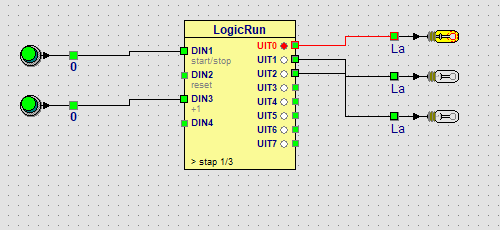
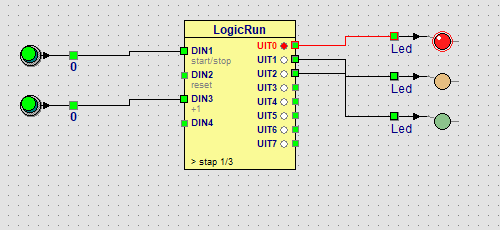
Led: lamp met kleur (rood, groen, oranje) via het rechtsklikmenu
- TjanSimLight.Kleur (lkLamp, lkRood, lkGroen, lkOranje): een led werkt net
  als een lamp; getekend als gekleurd bolletje (Afbeelding) of als diode met
  pijltjes (IEC/ANSI), fel als hij brandt, een lichte tint als hij uit is.
- Rechtsklikmenu Kleur; kleur als extra veld in de .lpl (een oudere Logic
  toont een lamp); telt mee voor ongedaan maken en het sterretje.
- Les 12 met een rode, oranje en groene led; help (4 talen) bij Uitvoer.

diff --git a/projects/LogicCEF/helpsrc/fr/les12.html b/projects/LogicCEF/helpsrc/fr/les12.html
@@ -6,15 +6,15 @@
 
   <p><a class="open" href="../../panels/lessen/les12-logicrun.lpl">&#9654; Ouvrir cet exemple</a></p>
   <figure>
-    <img src="../img/les12-logicrun.png" alt="Bloc LogicRun avec deux boutons-poussoirs et trois lampes">
-    <figcaption>Le programme tourne : UIT0 est active, la lampe du haut (rouge) est allumée.</figcaption>
+    <img src="../img/les12-logicrun.png" alt="Bloc LogicRun avec deux boutons-poussoirs et trois LED">
+    <figcaption>Le programme tourne : UIT0 est active, la LED du haut (rouge) est allumée.</figcaption>
   </figure>
 
   <h2>Que voyez-vous ?</h2>
   <ul>
     <li>Le <a href="logicrun.html">bloc LogicRun</a> au milieu.</li>
     <li>À gauche, deux boutons-poussoirs : celui du haut est sur <b>DIN1</b> (marche/arrêt), celui du bas sur <b>DIN3</b> (+1).</li>
-    <li>À droite, trois lampes, comme un feu tricolore : <b>UIT0</b> rouge (en haut), <b>UIT1</b> orange (au milieu)
+    <li>À droite, trois LED, comme un feu tricolore : <b>UIT0</b> rouge (en haut), <b>UIT1</b> orange (au milieu)
       et <b>UIT2</b> vert (en bas).</li>
   </ul>
 
@@ -37,13 +37,13 @@
   </ol>
 
   <h2>Exercice</h2>
-  <p>Faites rester le feu vert allumé 5 secondes au lieu de 3. Ajoutez ensuite un feu pour piétons : une
-  quatrième lampe sur <b>UIT3</b> qui ne s&rsquo;allume que lorsque le feu est rouge.</p>
+  <p>Faites rester le feu vert allumé 5 secondes au lieu de 3. Ajoutez ensuite un feu pour piétons : une LED verte
+  sur <b>UIT3</b> qui ne s&rsquo;allume que lorsque le feu est rouge.</p>
   <details>
     <summary>Solution</summary>
     <p>Avec une durée de 500&nbsp;ms, 5 secondes font 10 fois la durée : mettez la <b>durée x</b> du pas 2 à 10.
-    Dans le pas 1 (rouge), cliquez aussi sur le rond de UIT3. Placez une lampe sur le panneau et tirez un fil de
-    UIT3 vers cette lampe. Ainsi, un seul programme commande plusieurs lampes à la fois.</p>
+    Dans le pas 1 (rouge), cliquez aussi sur le rond de UIT3. Placez une lampe sur le panneau, faites-en une LED verte avec le bouton droit
+    (<b>Couleur</b> &rsaquo; <b>LED verte</b>) et tirez un fil de UIT3 vers cette LED. Ainsi, un seul programme commande plusieurs LED à la fois.</p>
   </details>
 
   <div class="pager"><a href="les11.html">&larr; Leçon 11 : Le relais</a><a href="leerpad.html">Parcours &rarr;</a></div>

diff --git a/projects/LogicCEF/helpsrc/de/les12.html b/projects/LogicCEF/helpsrc/de/les12.html
@@ -6,15 +6,15 @@
 
   <p><a class="open" href="../../panels/lessen/les12-logicrun.lpl">&#9654; Dieses Beispiel öffnen</a></p>
   <figure>
-    <img src="../img/les12-logicrun.png" alt="LogicRun-Block mit zwei Tastern und drei Lampen">
-    <figcaption>Das Programm läuft: UIT0 ist ein, die obere Lampe (rot) leuchtet.</figcaption>
+    <img src="../img/les12-logicrun.png" alt="LogicRun-Block mit zwei Tastern und drei LEDs">
+    <figcaption>Das Programm läuft: UIT0 ist ein, die obere LED (rot) leuchtet.</figcaption>
   </figure>
 
   <h2>Was sehen Sie?</h2>
   <ul>
     <li>Den <a href="logicrun.html">LogicRun-Block</a> in der Mitte.</li>
     <li>Links zwei Taster: der obere ist an <b>DIN1</b> (Start/Stopp), der untere an <b>DIN3</b> (+1).</li>
-    <li>Rechts drei Lampen wie eine Ampel: <b>UIT0</b> rot (oben), <b>UIT1</b> gelb (Mitte) und
+    <li>Rechts drei LEDs wie eine Ampel: <b>UIT0</b> rot (oben), <b>UIT1</b> gelb (Mitte) und
       <b>UIT2</b> grün (unten).</li>
   </ul>
 
@@ -37,14 +37,14 @@
   </ol>
 
   <h2>Aufgabe</h2>
-  <p>Lassen Sie das grüne Licht 5 statt 3 Sekunden leuchten. Fügen Sie danach eine Fußgängerampel hinzu: eine
-  vierte Lampe an <b>UIT3</b>, die nur leuchtet, wenn die Ampel rot ist.</p>
+  <p>Lassen Sie das grüne Licht 5 statt 3 Sekunden leuchten. Fügen Sie danach eine Fußgängerampel hinzu: eine grüne LED
+  an <b>UIT3</b>, die nur leuchtet, wenn die Ampel rot ist.</p>
   <details>
     <summary>Lösung</summary>
     <p>Bei einer Schrittzeit von 500&nbsp;ms sind 5 Sekunden das 10-fache der Schrittzeit: setzen Sie
     <b>Zeit x</b> von Schritt 2 auf 10. Klicken Sie in Schritt 1 (rot) auch den Kreis von UIT3 an. Setzen Sie eine
-    Lampe auf das Panel und legen Sie einen Draht von UIT3 zu dieser Lampe. So steuert ein einziges Programm
-    mehrere Lampen gleichzeitig.</p>
+    Lampe auf das Panel, machen Sie mit der rechten Maustaste eine grüne LED daraus (<b>Farbe</b> &rsaquo; <b>Grüne LED</b>)
+    und legen Sie einen Draht von UIT3 zu dieser LED. So steuert ein einziges Programm mehrere LEDs gleichzeitig.</p>
   </details>
 
   <div class="pager"><a href="les11.html">&larr; Lektion 11: Das Relais</a><a href="leerpad.html">Lernpfad &rarr;</a></div>

diff --git a/projects/LogicCEF/helpsrc/nl/les12.html b/projects/LogicCEF/helpsrc/nl/les12.html
@@ -6,15 +6,15 @@
 
   <p><a class="open" href="../../panels/lessen/les12-logicrun.lpl">&#9654; Open dit voorbeeld</a></p>
   <figure>
-    <img src="../img/les12-logicrun.png" alt="LogicRun-blok met twee drukknoppen en drie lampen">
-    <figcaption>Het programma loopt: UIT0 is aan, de bovenste lamp (rood) brandt.</figcaption>
+    <img src="../img/les12-logicrun.png" alt="LogicRun-blok met twee drukknoppen en drie leds">
+    <figcaption>Het programma loopt: UIT0 is aan, de bovenste led (rood) brandt.</figcaption>
   </figure>
 
   <h2>Wat zie je?</h2>
   <ul>
     <li>Het <a href="logicrun.html">LogicRun-blok</a> in het midden.</li>
     <li>Links twee drukknoppen: de bovenste zit op <b>DIN1</b> (start/stop), de onderste op <b>DIN3</b> (+1).</li>
-    <li>Rechts drie lampen, zoals een verkeerslicht: <b>UIT0</b> rood (boven), <b>UIT1</b> oranje (midden) en
+    <li>Rechts drie leds, zoals een verkeerslicht: <b>UIT0</b> rood (boven), <b>UIT1</b> oranje (midden) en
       <b>UIT2</b> groen (onder).</li>
   </ul>
 
@@ -37,13 +37,12 @@
   </ol>
 
   <h2>Opdracht</h2>
-  <p>Laat het groene licht 5 seconden branden in plaats van 3. Voeg daarna een voetgangerslicht toe: een
-  vierde lamp op <b>UIT3</b> die alleen brandt als het verkeerslicht rood is.</p>
+  <p>Laat het groene licht 5 seconden branden in plaats van 3. Voeg daarna een voetgangerslicht toe: een groene led op <b>UIT3</b> die alleen brandt als het verkeerslicht rood is.</p>
   <details>
     <summary>Oplossing</summary>
     <p>Met een stapduur van 500&nbsp;ms zijn 5 seconden 10 keer de stapduur: zet bij stap 2 <b>tijd x</b> op 10.
-    Klik in stap 1 (rood) ook het rondje van UIT3 aan. Zet een lamp op het paneel en leg een draad van UIT3 naar
-    die lamp. Zo stuurt één programma meerdere lampen tegelijk.</p>
+    Klik in stap 1 (rood) ook het rondje van UIT3 aan. Zet een lamp op het paneel, maak er met de rechtermuisknop een groene led van
+    (<b>Kleur</b> &rsaquo; <b>Groene led</b>) en leg een draad van UIT3 naar die led. Zo stuurt één programma meerdere leds tegelijk.</p>
   </details>
 
   <div class="pager"><a href="les11.html">&larr; Les 11: Het relais</a><a href="leerpad.html">Leerpad &rarr;</a></div>

diff --git a/projects/LogicCEF/helpsrc/en/les12.html b/projects/LogicCEF/helpsrc/en/les12.html
@@ -6,15 +6,15 @@
 
   <p><a class="open" href="../../panels/lessen/les12-logicrun.lpl">&#9654; Open this example</a></p>
   <figure>
-    <img src="../img/les12-logicrun.png" alt="LogicRun block with two push buttons and three lamps">
-    <figcaption>The program is running: UIT0 is on, the top lamp (red) is lit.</figcaption>
+    <img src="../img/les12-logicrun.png" alt="LogicRun block with two push buttons and three LEDs">
+    <figcaption>The program is running: UIT0 is on, the top LED (red) is lit.</figcaption>
   </figure>
 
   <h2>What do you see?</h2>
   <ul>
     <li>The <a href="logicrun.html">LogicRun block</a> in the middle.</li>
     <li>On the left two push buttons: the top one is on <b>DIN1</b> (start/stop), the bottom one on <b>DIN3</b> (+1).</li>
-    <li>On the right three lamps, like a traffic light: <b>UIT0</b> red (top), <b>UIT1</b> amber (middle) and
+    <li>On the right three LEDs, like a traffic light: <b>UIT0</b> red (top), <b>UIT1</b> amber (middle) and
       <b>UIT2</b> green (bottom).</li>
   </ul>
 
@@ -37,13 +37,13 @@
   </ol>
 
   <h2>Exercise</h2>
-  <p>Make the green light stay on for 5 seconds instead of 3. Then add a pedestrian light: a fourth lamp on
+  <p>Make the green light stay on for 5 seconds instead of 3. Then add a pedestrian light: a green LED on
   <b>UIT3</b> that is only lit when the traffic light is red.</p>
   <details>
     <summary>Solution</summary>
     <p>With a step time of 500&nbsp;ms, 5 seconds is 10 times the step time: set <b>time x</b> of step 2 to 10.
-    In step 1 (red) also click the circle of UIT3. Put a lamp on the panel and run a wire from UIT3 to that lamp.
-    That way one program controls several lamps at the same time.</p>
+    In step 1 (red) also click the circle of UIT3. Put a lamp on the panel, turn it into a green LED with the right mouse button
+    (<b>Colour</b> &rsaquo; <b>Green LED</b>) and run a wire from UIT3 to that LED. That way one program controls several LEDs at the same time.</p>
   </details>
 
   <div class="pager"><a href="les11.html">&larr; Lesson 11: The relay</a><a href="leerpad.html">Learning path &rarr;</a></div>

diff --git a/projects/LogicCEF/helpsrc/fr/uitvoer.html b/projects/LogicCEF/helpsrc/fr/uitvoer.html
@@ -6,7 +6,13 @@
   <a href="simulatie.html#voeding">Où sont le plus et le moins&nbsp;?</a> S&rsquo;il y a des <a href="voeding.html">rails d&rsquo;alimentation</a> sur le panneau, branchez les sorties à gauche d&rsquo;un rail &minus; (masse).</p>
 
   <h2 id="lamp"><img src="../img/pal-lamp.png" class="ico" alt="">Lampe</h2>
-  <p>S&rsquo;allume tant que l&rsquo;entrée est active.</p>
+$1  <p id="led"><b>LED :</b> cliquez avec le bouton droit sur une lampe et choisissez <b>Couleur</b> &rsaquo; <b>LED rouge</b>,
+  <b>LED verte</b> ou <b>LED orange</b>. La lampe devient alors une LED de cette couleur et fonctionne pour le reste comme une lampe.
+  Une LED éteinte montre une teinte claire de sa couleur. <b>Couleur</b> &rsaquo; <b>Lampe</b> en refait une lampe ordinaire.</p>
+  <figure>
+    <img src="../img/led-voorbeeld.png" alt="Une LED rouge, une orange et une verte">
+    <figcaption>Une LED rouge allumée, et une LED orange et une LED verte éteintes.</figcaption>
+  </figure>
 
   <h2 id="relais"><img src="../img/pal-relais.png" class="ico" alt="">Relais</h2>
   <p>Un relais est un interrupteur commandé par un électroaimant. À gauche se trouve l&rsquo;entrée <b>R</b> vers

diff --git a/projects/LogicCEF/helpsrc/de/uitvoer.html b/projects/LogicCEF/helpsrc/de/uitvoer.html
@@ -6,7 +6,13 @@
   <a href="simulatie.html#voeding">Wo sind Plus und Minus?</a> Stehen <a href="voeding.html">Versorgungsschienen</a> auf dem Panel, stecken Sie die Ausgänge links an eine &minus; Schiene (Masse).</p>
 
   <h2 id="lamp"><img src="../img/pal-lamp.png" class="ico" alt="">Lampe</h2>
-  <p>Leuchtet, solange der Eingang ein ist.</p>
+$1  <p id="led"><b>LED:</b> Klicken Sie mit der rechten Maustaste auf eine Lampe und wählen Sie <b>Farbe</b> &rsaquo; <b>Rote LED</b>,
+  <b>Grüne LED</b> oder <b>Orange LED</b>. Die Lampe wird dann zu einer LED in dieser Farbe und funktioniert sonst genau wie eine Lampe.
+  Eine ausgeschaltete LED zeigt einen hellen Ton ihrer Farbe. Mit <b>Farbe</b> &rsaquo; <b>Lampe</b> wird sie wieder eine normale Lampe.</p>
+  <figure>
+    <img src="../img/led-voorbeeld.png" alt="Eine rote, eine orange und eine grüne LED">
+    <figcaption>Eine rote LED, die leuchtet, und eine orange und eine grüne LED, die aus sind.</figcaption>
+  </figure>
 
   <h2 id="relais"><img src="../img/pal-relais.png" class="ico" alt="">Relais</h2>
   <p>Ein Relais ist ein Schalter, der von einem Elektromagneten betätigt wird. Links befindet sich der Eingang

diff --git a/projects/LogicCEF/helpsrc/en/uitvoer.html b/projects/LogicCEF/helpsrc/en/uitvoer.html
@@ -6,7 +6,13 @@
   <a href="simulatie.html#voeding">Where are the plus and the minus?</a> If there are <a href="voeding.html">power rails</a> on the panel, plug the outputs in on the left of a &minus; rail (ground).</p>
 
   <h2 id="lamp"><img src="../img/pal-lamp.png" class="ico" alt="">Lamp</h2>
-  <p>Lights as long as the input is on.</p>
+$1  <p id="led"><b>LED:</b> right-click a lamp and choose <b>Colour</b> &rsaquo; <b>Red LED</b>,
+  <b>Green LED</b> or <b>Orange LED</b>. The lamp then becomes an LED in that colour and otherwise works just like a lamp.
+  An LED that is off shows a light shade of its colour. <b>Colour</b> &rsaquo; <b>Lamp</b> turns it back into an ordinary lamp.</p>
+  <figure>
+    <img src="../img/led-voorbeeld.png" alt="A red, an orange and a green LED">
+    <figcaption>A red LED that is lit, and an orange and a green LED that are off.</figcaption>
+  </figure>
 
   <h2 id="relais"><img src="../img/pal-relais.png" class="ico" alt="">Relay</h2>
   <p>A relay is a switch operated by an electromagnet. On the left is input <b>R</b> to the coil,

diff --git a/projects/LogicCEF/helpsrc/nl/uitvoer.html b/projects/LogicCEF/helpsrc/nl/uitvoer.html
@@ -8,7 +8,13 @@
   &minus; rail (massa) in.</p>
 
   <h2 id="lamp"><img src="../img/pal-lamp.png" class="ico" alt="">Lamp</h2>
-  <p>Brandt zolang de ingang aan is.</p>
+$1  <p id="led"><b>Led:</b> klik met de rechtermuisknop op een lamp en kies <b>Kleur</b> &rsaquo; <b>Rode led</b>,
+  <b>Groene led</b> of <b>Oranje led</b>. De lamp wordt dan een led in die kleur en werkt verder net als een lamp.
+  Een led die uit is, toont een lichte tint van haar kleur. Met <b>Kleur</b> &rsaquo; <b>Lamp</b> wordt het weer een gewone lamp.</p>
+  <figure>
+    <img src="../img/led-voorbeeld.png" alt="Een rode, een oranje en een groene led">
+    <figcaption>Een rode led die brandt, en een oranje en een groene led die uit zijn.</figcaption>
+  </figure>
 
   <h2 id="relais"><img src="../img/pal-relais.png" class="ico" alt="">Relais</h2>
   <p>Een relais is een schakelaar die door een elektromagneet bediend wordt. Links zit de ingang

diff --git a/projects/LogicCEF/helpsrc/fr/logicrun.html b/projects/LogicCEF/helpsrc/fr/logicrun.html
@@ -5,8 +5,8 @@
   chenillard ou un compteur sans utiliser une seule porte.</p>
 
   <figure>
-    <img src="../img/les12-logicrun.png" alt="Bloc LogicRun avec deux boutons-poussoirs et trois lampes">
-    <figcaption>Un bloc LogicRun : les boutons-poussoirs sont sur DIN1 (marche/arrêt) et DIN3 (+1), les lampes
+    <img src="../img/les12-logicrun.png" alt="Bloc LogicRun avec deux boutons-poussoirs et trois LED">
+    <figcaption>Un bloc LogicRun : les boutons-poussoirs sont sur DIN1 (marche/arrêt) et DIN3 (+1), les LED
     sur UIT0, UIT1 et UIT2.</figcaption>
   </figure>
 

diff --git a/projects/LogicCEF/helpsrc/de/logicrun.html b/projects/LogicCEF/helpsrc/de/logicrun.html
@@ -5,8 +5,8 @@
   oder einen Zähler, ohne ein einziges Gatter zu verwenden.</p>
 
   <figure>
-    <img src="../img/les12-logicrun.png" alt="LogicRun-Block mit zwei Tastern und drei Lampen">
-    <figcaption>Ein LogicRun-Block: die Taster sind an DIN1 (Start/Stopp) und DIN3 (+1), die Lampen an
+    <img src="../img/les12-logicrun.png" alt="LogicRun-Block mit zwei Tastern und drei LEDs">
+    <figcaption>Ein LogicRun-Block: die Taster sind an DIN1 (Start/Stopp) und DIN3 (+1), die LEDs an
     UIT0, UIT1 und UIT2.</figcaption>
   </figure>
 

diff --git a/projects/LogicCEF/helpsrc/en/logicrun.html b/projects/LogicCEF/helpsrc/en/logicrun.html
@@ -5,8 +5,8 @@
   counter without using a single gate.</p>
 
   <figure>
-    <img src="../img/les12-logicrun.png" alt="LogicRun block with two push buttons and three lamps">
-    <figcaption>A LogicRun block: the push buttons are on DIN1 (start/stop) and DIN3 (+1), the lamps on
+    <img src="../img/les12-logicrun.png" alt="LogicRun block with two push buttons and three LEDs">
+    <figcaption>A LogicRun block: the push buttons are on DIN1 (start/stop) and DIN3 (+1), the LEDs on
     UIT0, UIT1 and UIT2.</figcaption>
   </figure>
 

diff --git a/projects/LogicCEF/helpsrc/nl/logicrun.html b/projects/LogicCEF/helpsrc/nl/logicrun.html
@@ -5,8 +5,8 @@
   teller zonder één poort te gebruiken.</p>
 
   <figure>
-    <img src="../img/les12-logicrun.png" alt="LogicRun-blok met twee drukknoppen en drie lampen">
-    <figcaption>Een LogicRun-blok: de drukknoppen zitten op DIN1 (start/stop) en DIN3 (+1), de lampen op
+    <img src="../img/les12-logicrun.png" alt="LogicRun-blok met twee drukknoppen en drie leds">
+    <figcaption>Een LogicRun-blok: de drukknoppen zitten op DIN1 (start/stop) en DIN3 (+1), de leds op
     UIT0, UIT1 en UIT2.</figcaption>
   </figure>
 
